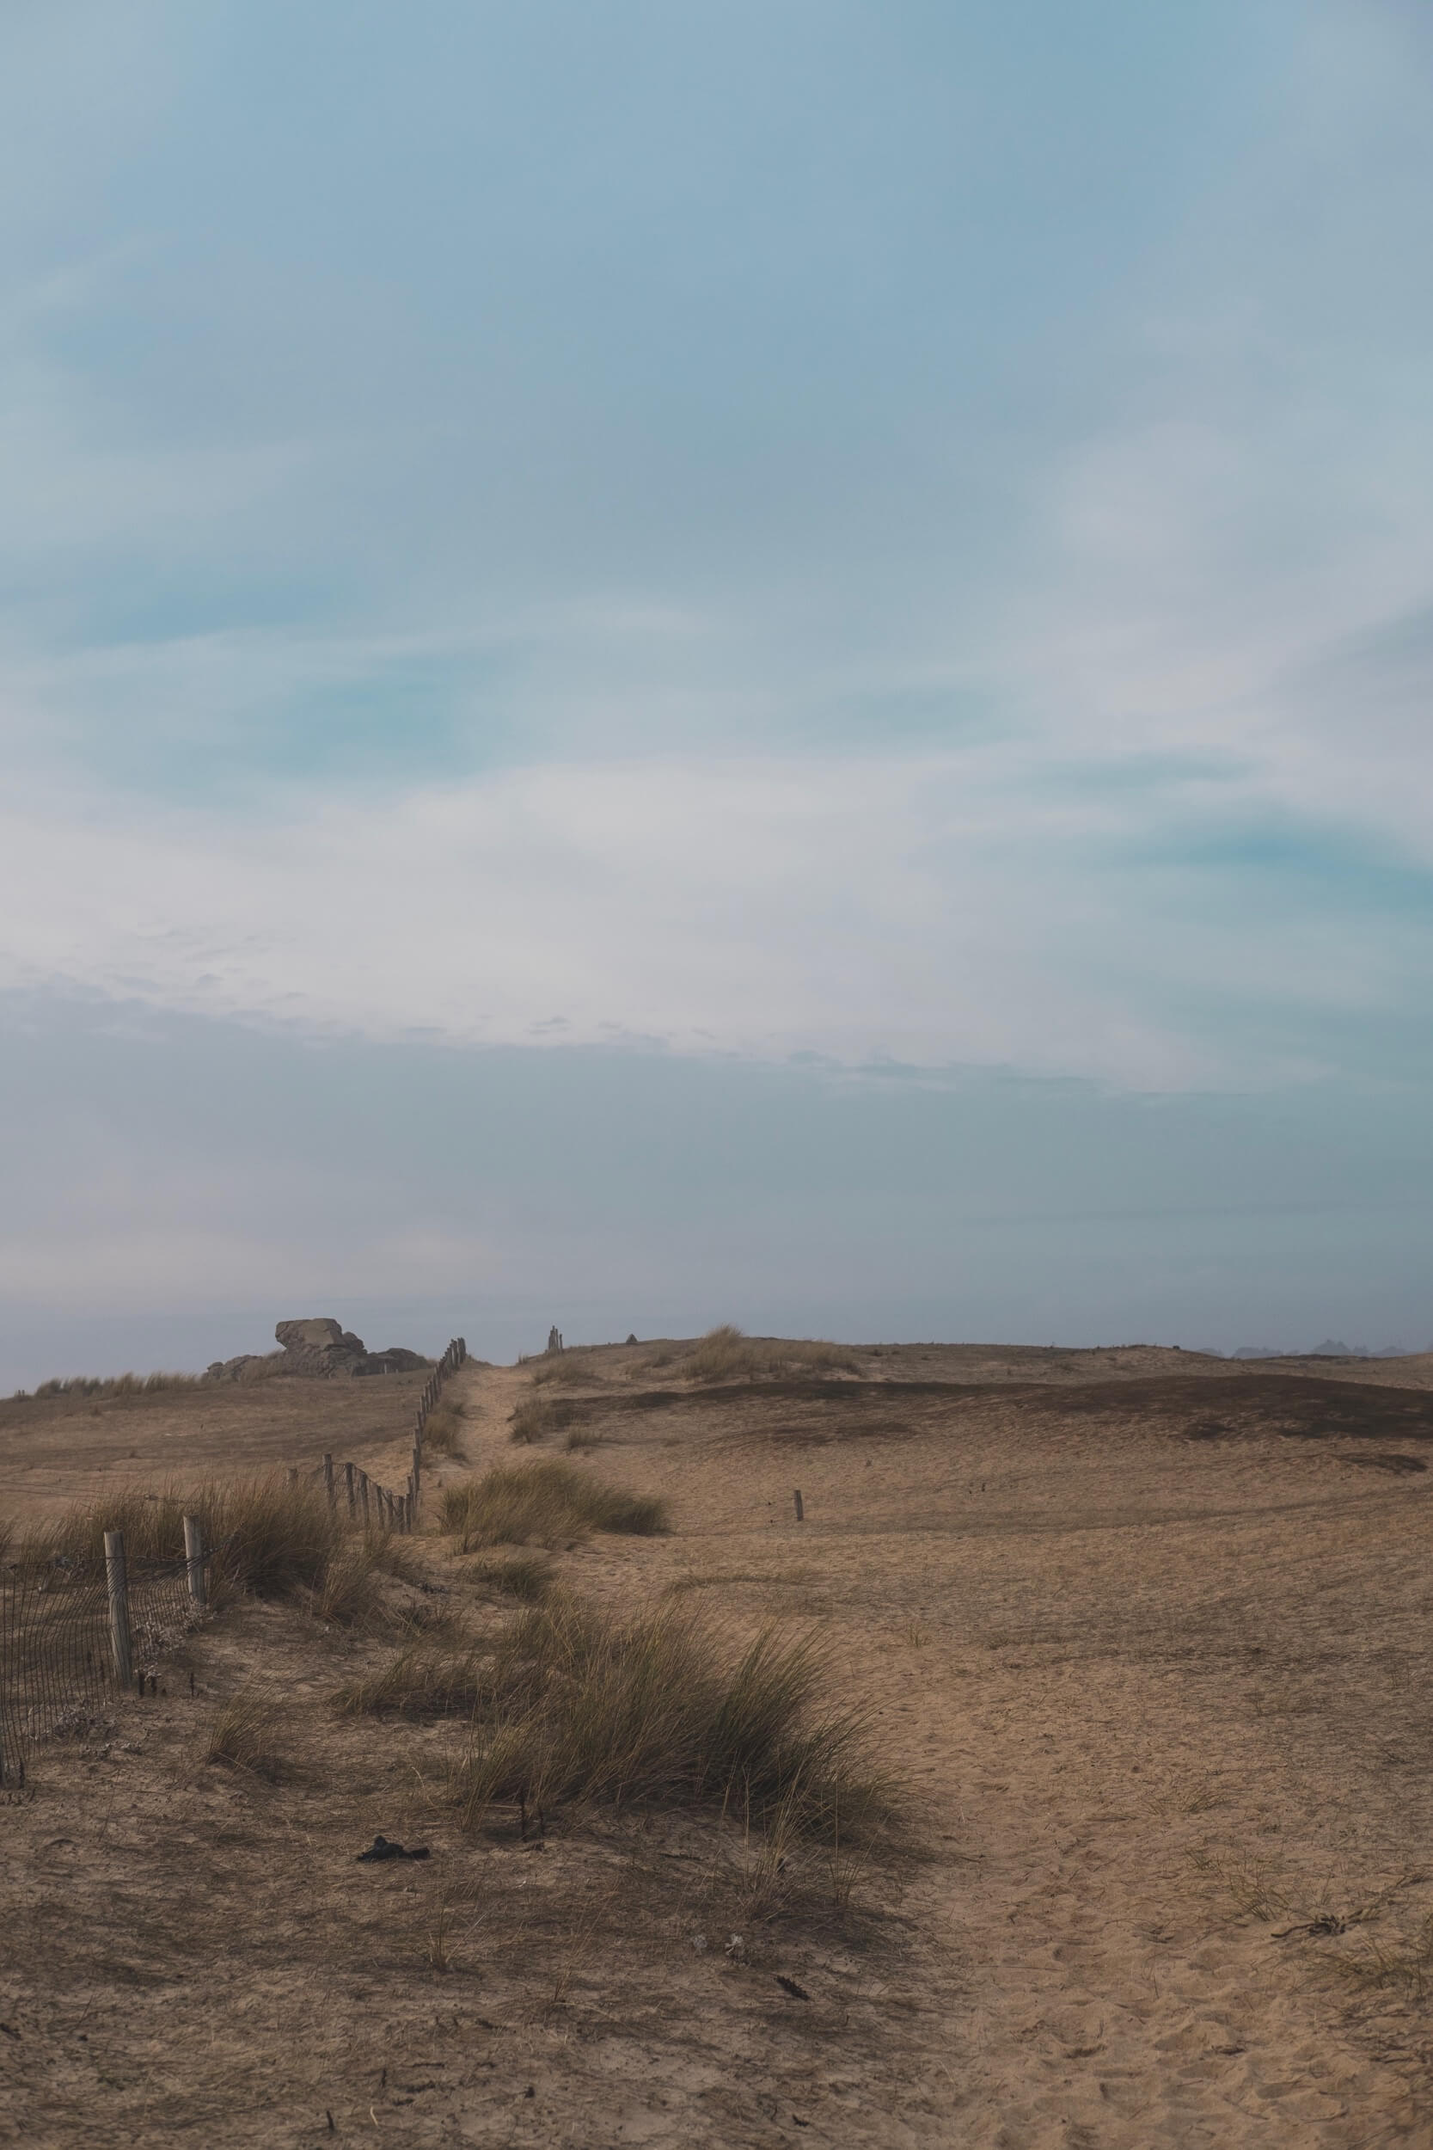
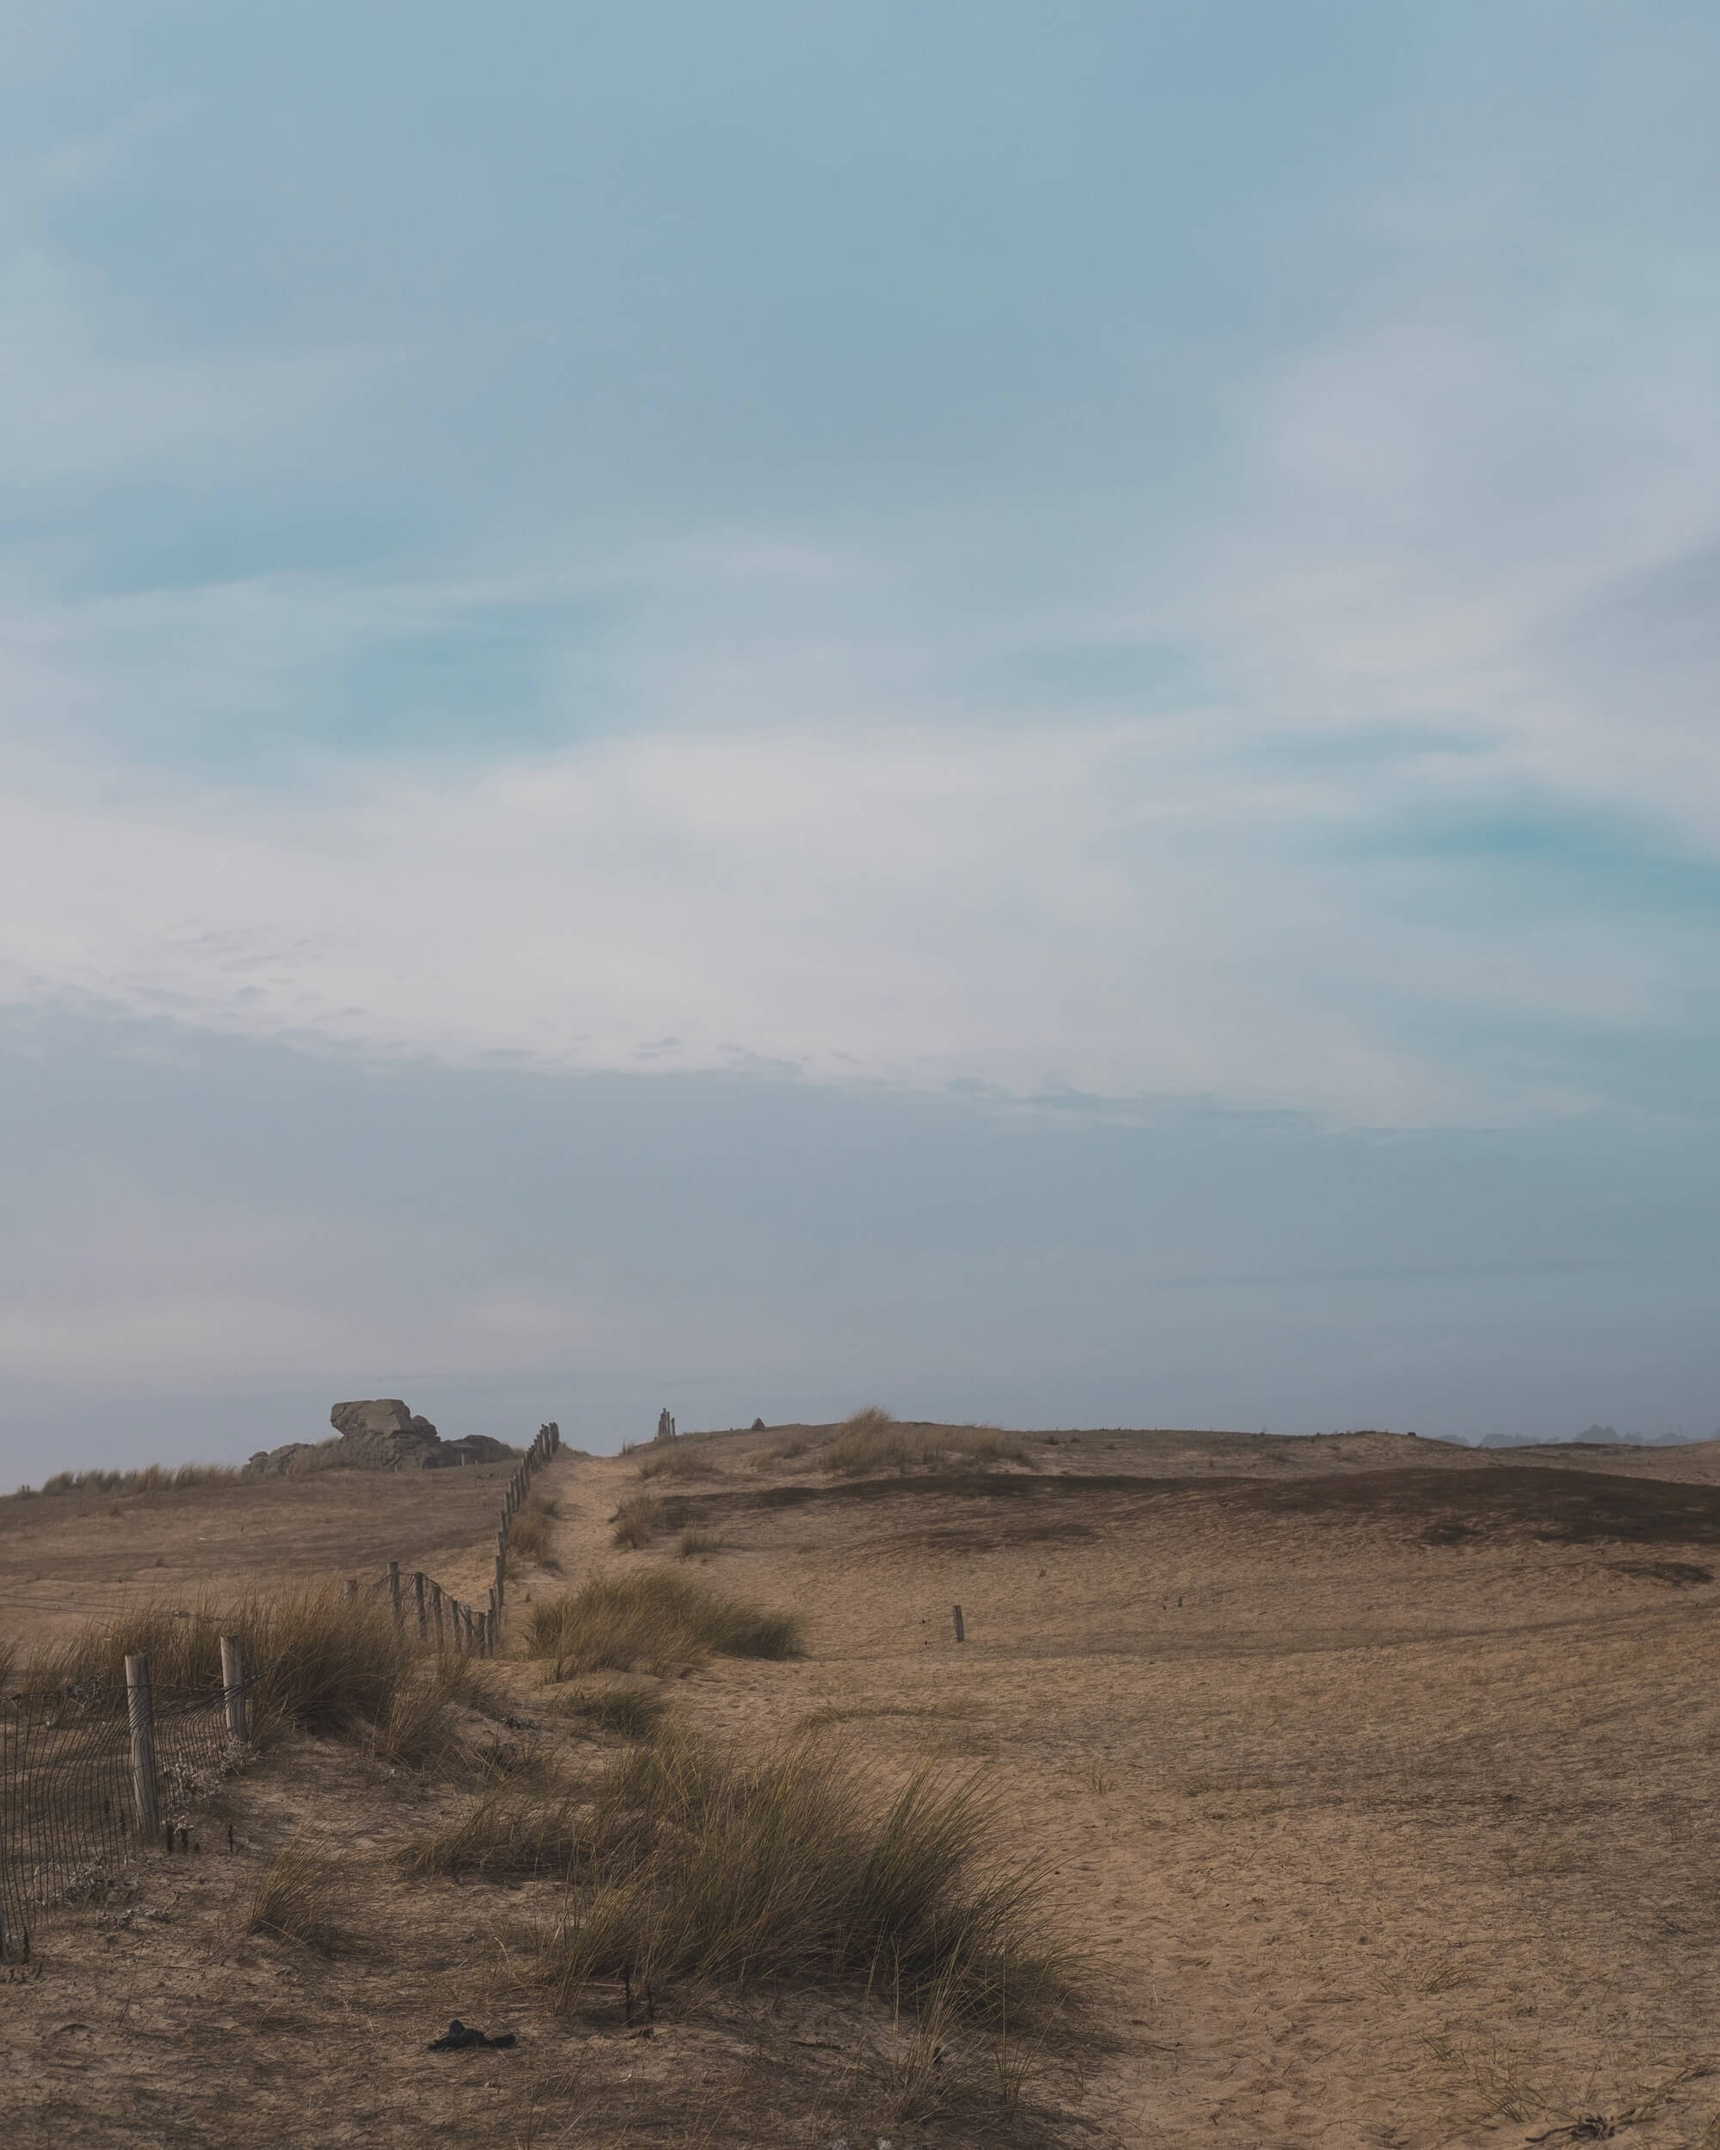
Fix image and cover

diff --git a/content/notes/bretagne-sud-part-1/index.md b/content/notes/bretagne-sud-part-1/index.md
@@ -5,7 +5,7 @@ draft: false
 slug: "bretagne-sud-part-1"
 emoji: "⚓"
 resources:
-- src: "9.jpg"
+- src: "4.jpg"
   name: "cover"
 - src: "*.jpg"
 ---
@@ -60,8 +60,8 @@ La Ria d’Etel nous est conseillée par notre hôte. On arrive en plein brouill
 {{< translation language="en" >}}The Ria of Etel has been one of those places we hadn’t plan to come. We arrive in a complete fog. A small island with a house on it is barely visible from the road. We cross a stone bridge, hike around the whole, quite small, island of Saint-Cado and the view is up to our imagination due to the fog. The house is a bit more visible now. Time for a good lunch break. We will come back in the sunny afternoon for a good hike along the Ria, between fields, pine forest and sea. A quite nice weather and Tom guiding us around. He asks us to ask him questions about all we are seeing. We ask him his usual “When do we arrive?”. He doesn’t know...{{</ translation >}}
 
 {{< photoset max="3" >}}
-  {{< photo src="1.jpg" >}}
   {{< photo src="2.jpg" >}}
+  {{< photo src="1.jpg" >}}
   {{< photo src="3.jpg" >}}
 {{</ photoset >}} 
 
